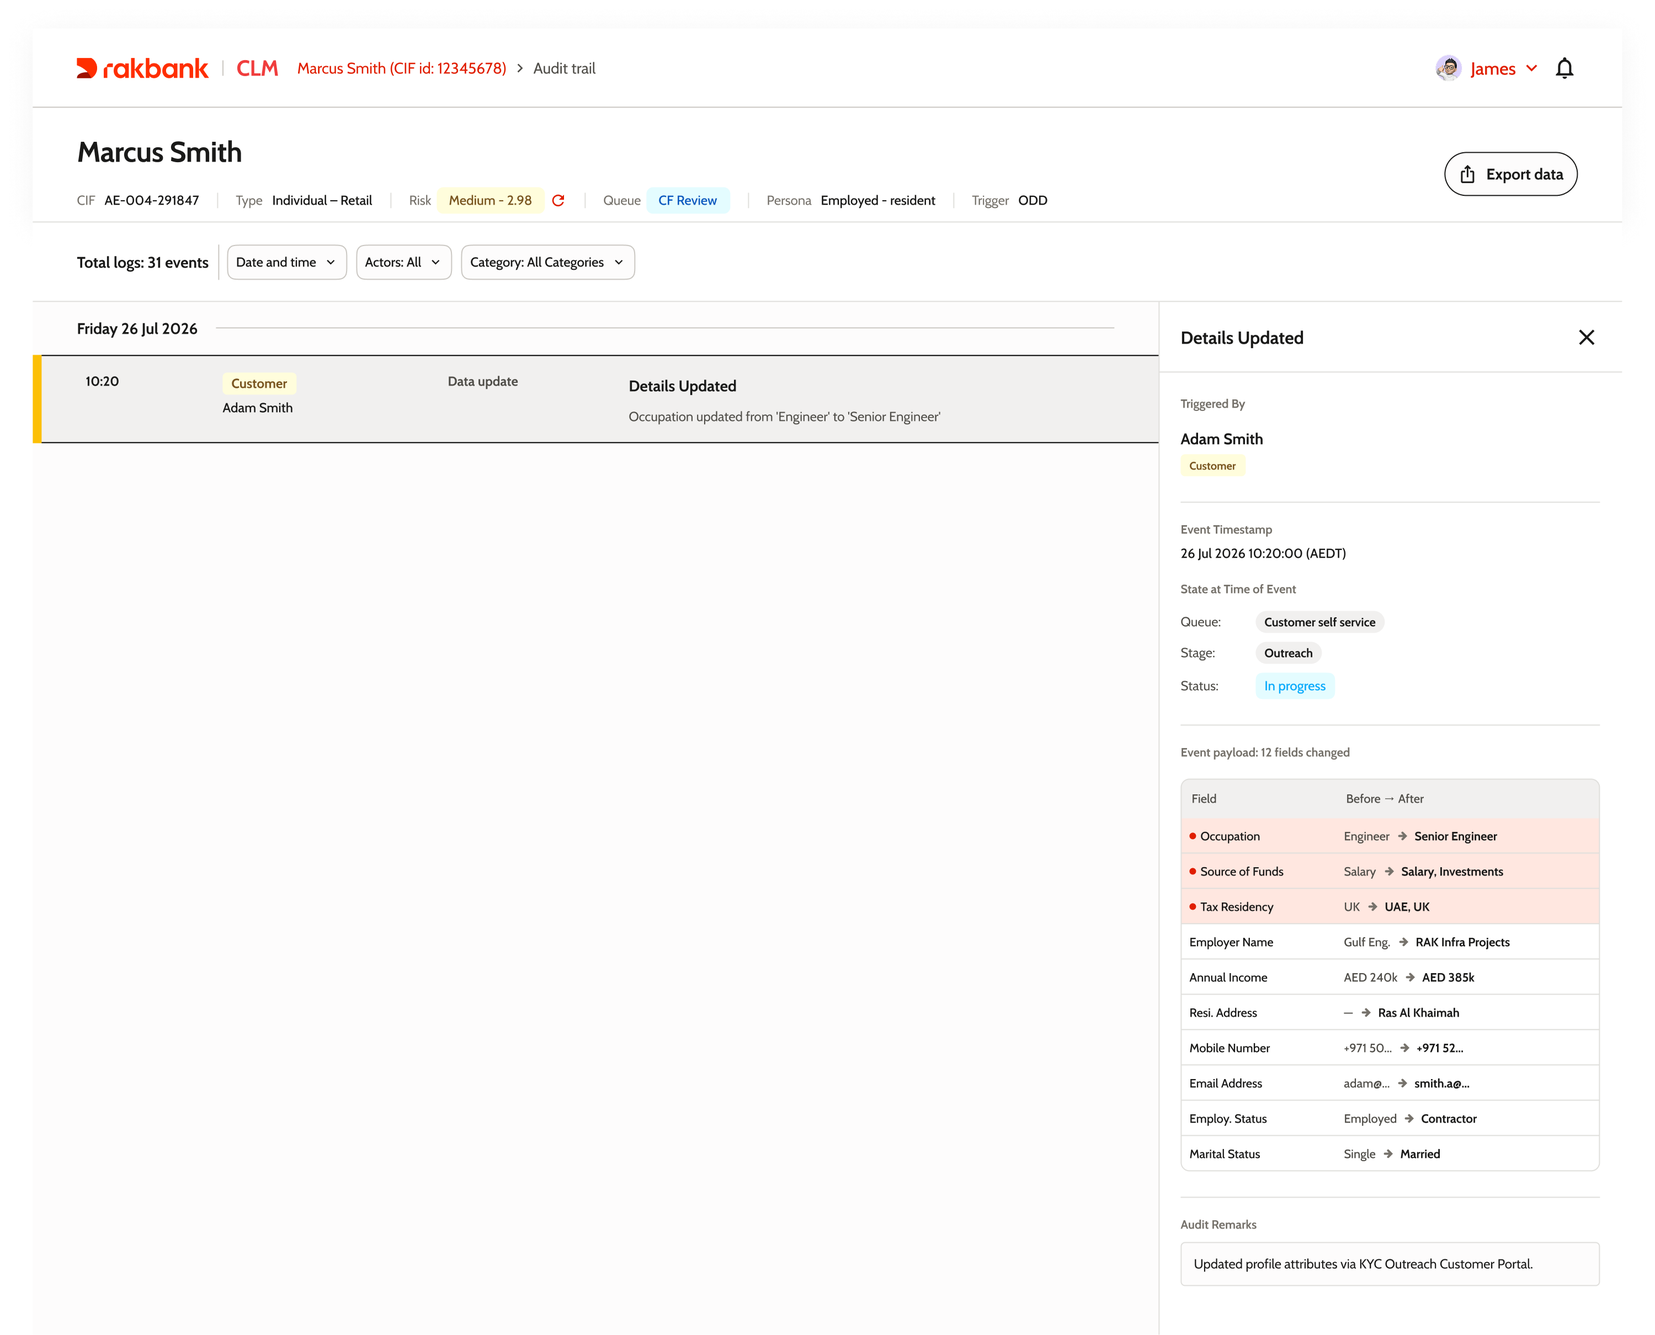
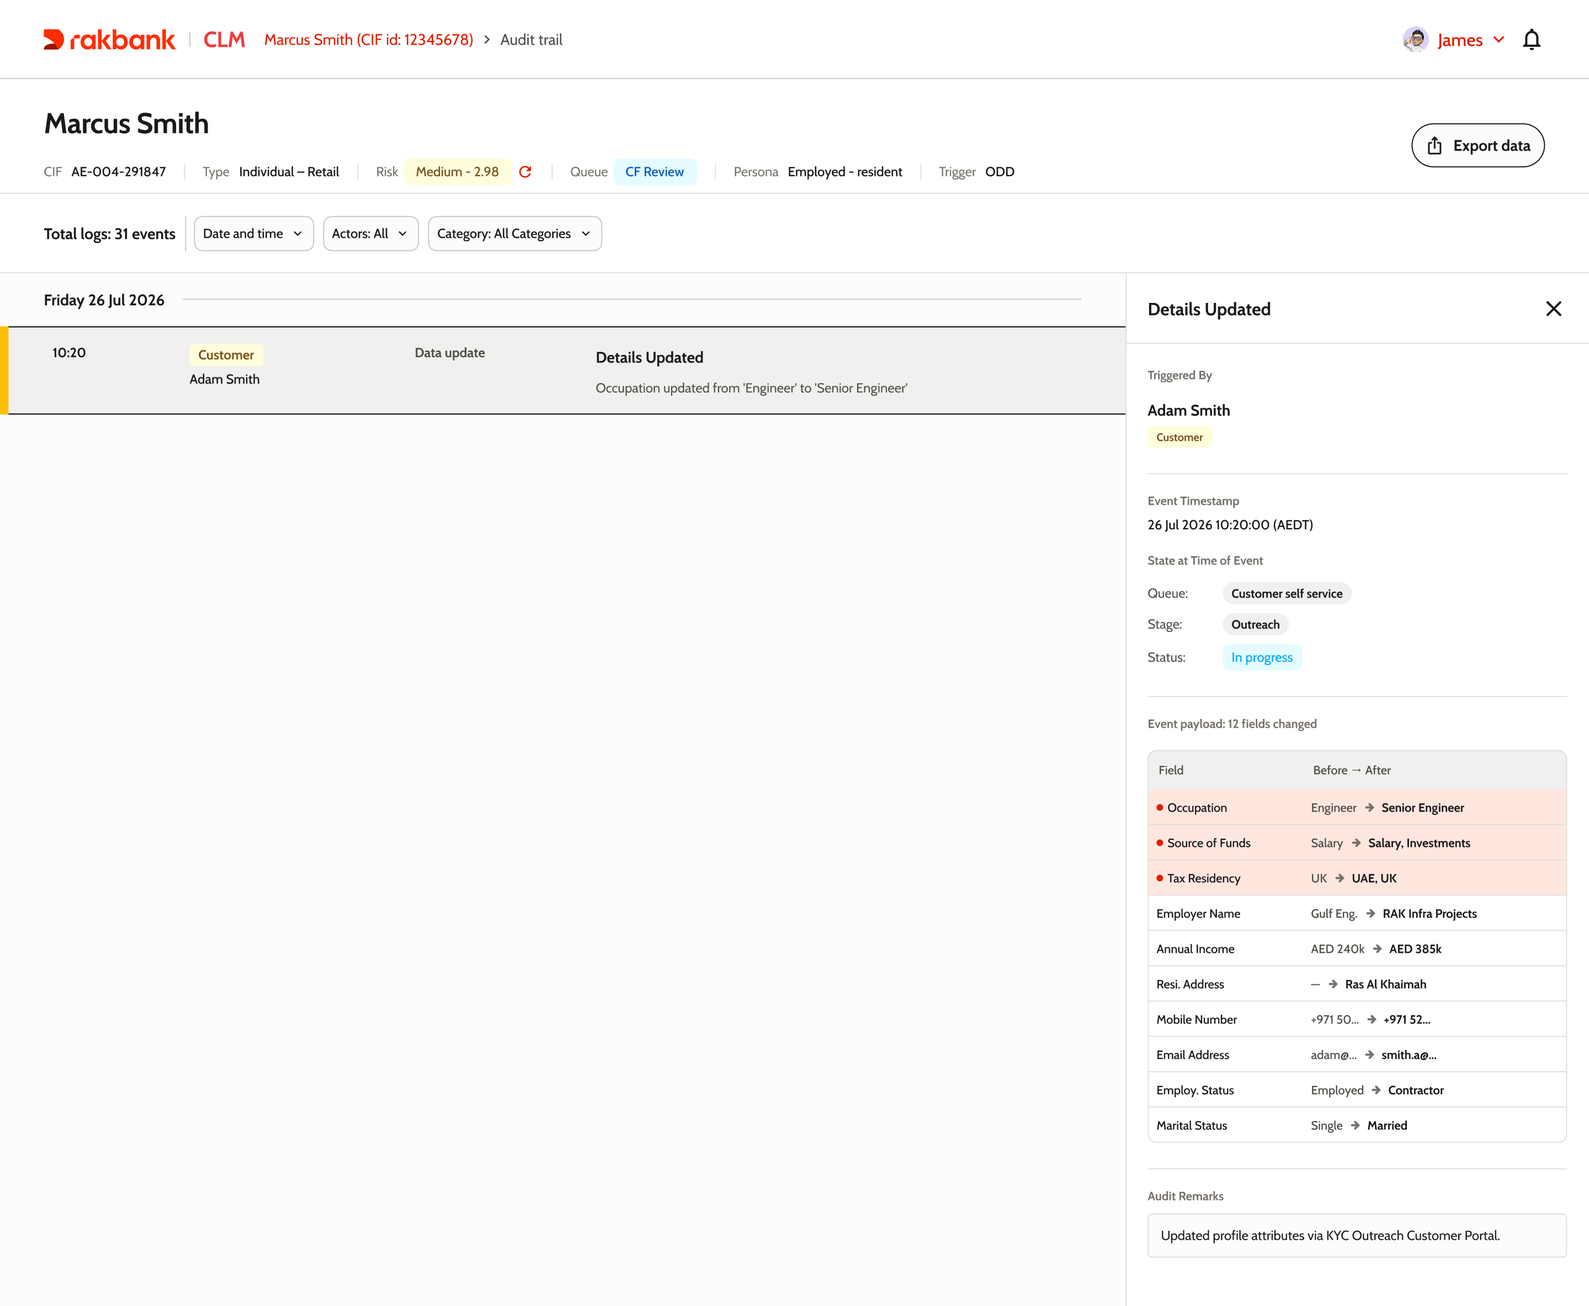
Clean up CLM screenshots: crop baked shadows, hairline stroke styling (#171)

diff --git a/case-rakbank-ru.html b/case-rakbank-ru.html
@@ -14,7 +14,7 @@
       href="https://fonts.googleapis.com/css2?family=Inter:wght@300;400;500;600;700;800&display=swap"
       rel="stylesheet"
     />
-    <link rel="stylesheet" href="styles.css?v=35" />
+    <link rel="stylesheet" href="styles.css?v=36" />
     <script defer src="script.js?v=4"></script>
   </head>
   <body class="n-bg n-rakbank">
@@ -105,8 +105,8 @@
           </ul>
           <p class="n-up">Мы отказались от <strong>тихого логирования</strong>, потому что оно даёт запись, но не повествование: видно, что произошло, но не почему. Мы отказались от <strong>полного обоснования</strong>, потому что при больших объёмах оно создаёт трение и порождает некачественный текст, который никто не читает.</p>
           <p class="n-up">Мы остановились на <strong>структурированных комментариях</strong> в моменты, которые действительно важны. Когда аналитик перенаправляет дело, меняет риск-оценку или запускает последствия, панель решения запрашивает причину — структурированную, короткую и привязанную к самому действию.</p>
-          <div class="n-img-block n-img-block--flush n-up">
-            <img src="assets/clm-case-panel.png?v=2" alt="Панель решения по делу: история маршрутизации и точка, где перед отправкой требуется структурированный комментарий" />
+          <div class="n-img-block n-img-block--flush n-img-block--ring n-up">
+            <img src="assets/clm-case-panel.png?v=3" alt="Панель решения по делу: история маршрутизации и точка, где перед отправкой требуется структурированный комментарий" />
           </div>
         </div>
 
@@ -117,7 +117,7 @@
           <p class="n-up">Это жизнь реального дела, воспроизведённая заново: срабатывает периодическая проверка, система проверяет применимость и отправляет запрос, клиент входит в портал, обновляет данные и загружает документы; дело берёт аналитик, затем бизнес-контроль, комплаенс повышает уровень риска, и старший офицер ставит финальную подпись. Каждый шаг — событие на одной ленте времени.</p>
           <p class="n-up">Цветная кромка говорит, кто действовал, ещё до того, как вы прочитали хоть слово: системные события — серым, сотрудники банка — синим, клиент — жёлтым. А поскольку след фильтруется по дате, актору и категории, «покажи всё, что делал клиент» — это один клик, а не расследование.</p>
           <div class="n-img-block n-img-block--flush n-img-block--ring n-up">
-            <img src="assets/clm-audit-timeline.png?v=2" alt="Полная лента аудиторского следа: 31 событие за три дня, от выявления триггера до закрытия дела, с цветовой кодировкой по акторам" />
+            <img src="assets/clm-audit-timeline.png?v=3" alt="Полная лента аудиторского следа: 31 событие за три дня, от выявления триггера до закрытия дела, с цветовой кодировкой по акторам" />
           </div>
           <div class="n-img-block n-img-block--flush n-up">
             <img src="assets/clm-audit-filtered.png?v=1" alt="Тот же след с фильтром «Актор: клиент» — только входы клиента в портал, отправки, загрузки и обновления данных" />
@@ -137,7 +137,7 @@
           </ul>
           <p class="n-up">Снимок состояния — то, что аудиторов волнует больше всего. Недостаточно знать, что дело одобрили — нужно знать, на каком этапе оно было и что видел аналитик, когда одобрение произошло.</p>
           <div class="n-img-block n-img-block--flush n-img-block--ring n-up">
-            <img src="assets/clm-audit-approve.png?v=1" alt="Детали события в аудиторском следе: одобрение дела названным комплаенс-офицером, с состоянием на момент события, полезной нагрузкой решения и аудиторским комментарием" />
+            <img src="assets/clm-audit-approve.png?v=2" alt="Детали события в аудиторском следе: одобрение дела названным комплаенс-офицером, с состоянием на момент события, полезной нагрузкой решения и аудиторским комментарием" />
           </div>
         </div>
 
@@ -149,14 +149,14 @@
           <p class="n-up">Когда система перемещает дело, полезная нагрузка показывает предыдущее состояние конвейера и завершённый переход. Когда письмо не доставлено, событие несёт код ошибки, запланированный повтор и флаг «не разрешено». А когда клиент обновляет свои данные, полезная нагрузка — это диф «до и после» по каждому изменённому полю, с пометкой полей, значимых для риска.</p>
           <div class="n-img-pair n-up">
             <div class="n-img-block n-img-block--flush">
-              <img src="assets/clm-audit-queue.png?v=1" alt="Системное событие: автоматический переход между очередями, с предыдущим состоянием конвейера и завершённым переходом в полезной нагрузке" />
+              <img src="assets/clm-audit-queue.png?v=2" alt="Системное событие: автоматический переход между очередями, с предыдущим состоянием конвейера и завершённым переходом в полезной нагрузке" />
             </div>
             <div class="n-img-block n-img-block--flush">
-              <img src="assets/clm-audit-exception.png?v=1" alt="Событие-исключение: сбой доставки письма клиенту, с кодом ошибки, запланированным повтором и статусом «не разрешено»" />
+              <img src="assets/clm-audit-exception.png?v=2" alt="Событие-исключение: сбой доставки письма клиенту, с кодом ошибки, запланированным повтором и статусом «не разрешено»" />
             </div>
           </div>
           <div class="n-img-block n-img-block--flush n-img-block--ring n-up">
-            <img src="assets/clm-audit-details.png?v=1" alt="Событие клиента: данные профиля обновлены через KYC-портал, с дифом «до и после» по всем 12 изменённым полям и подсветкой значимых для риска" />
+            <img src="assets/clm-audit-details.png?v=2" alt="Событие клиента: данные профиля обновлены через KYC-портал, с дифом «до и после» по всем 12 изменённым полям и подсветкой значимых для риска" />
           </div>
         </div>
 

diff --git a/case-rakbank.html b/case-rakbank.html
@@ -14,7 +14,7 @@
       href="https://fonts.googleapis.com/css2?family=Inter:wght@300;400;500;600;700;800&display=swap"
       rel="stylesheet"
     />
-    <link rel="stylesheet" href="styles.css?v=35" />
+    <link rel="stylesheet" href="styles.css?v=36" />
     <script defer src="script.js?v=4"></script>
   </head>
   <body class="n-bg n-rakbank">
@@ -79,8 +79,8 @@
           <h2 class="n-title n-up">A record that writes itself as you work</h2>
           <p class="n-up">That fear is what the audit trail is for. Not a log — a story the case tells about itself, built while the work happens.</p>
           <p class="n-up">The obvious approach was to log everything silently. But a log tells you what happened, not why. The other extreme — asking people to justify every click — buries the record in noise. So I put the questions only where the decisions are: when someone routes a case, changes a risk score, or triggers a consequence, the panel asks for a short reason before it lets them through. Everything else records itself quietly in the background.</p>
-          <div class="n-img-block n-img-block--flush n-up">
-            <img src="assets/clm-case-panel.png?v=2" alt="The case decision panel: routing history and the point where a short reason is required before submitting" />
+          <div class="n-img-block n-img-block--flush n-img-block--ring n-up">
+            <img src="assets/clm-case-panel.png?v=3" alt="The case decision panel: routing history and the point where a short reason is required before submitting" />
           </div>
         </div>
 
@@ -91,11 +91,11 @@
           <p class="n-up">Here's a real case, replayed. A periodic review kicks off, the system emails the customer, they log in, fix their details, upload documents. A reviewer picks it up, hands it to business controls, compliance raises the risk, and a senior officer signs off. All of it lands on one timeline.</p>
           <p class="n-up">The colour on the edge tells you who acted before you read a word — grey for the system, blue for the bank, yellow for the customer. Need just the customer's side of the story? That's one filter.</p>
           <div class="n-img-block n-img-block--flush n-img-block--ring n-up">
-            <img src="assets/clm-audit-timeline.png?v=2" alt="The full audit trail timeline: 31 events across three days, from trigger identified to case closed, colour-coded by actor" />
+            <img src="assets/clm-audit-timeline.png?v=3" alt="The full audit trail timeline: 31 events across three days, from trigger identified to case closed, colour-coded by actor" />
           </div>
           <p class="n-up">Open any event and you get the same four answers: who did it, what the case looked like at that exact moment, what changed, and the reason they gave. That snapshot of the moment is what auditors care about most — not what the case looks like now, but what the reviewer could see when they made the call.</p>
           <div class="n-img-block n-img-block--flush n-img-block--ring n-up">
-            <img src="assets/clm-audit-approve.png?v=1" alt="An event opened: a case approval by a named compliance officer, with the state at that moment, what changed, and the reason given" />
+            <img src="assets/clm-audit-approve.png?v=2" alt="An event opened: a case approval by a named compliance officer, with the state at that moment, what changed, and the reason given" />
           </div>
         </div>
 
@@ -106,15 +106,15 @@
           <p class="n-up">A case isn't shaped only by reviewers. The system moves it between queues. Outreach emails fail and get retried. The customer edits their own profile through the portal. The trail records all of it the same way — because to an auditor, a failed email matters as much as an approval.</p>
           <div class="n-img-pair n-up">
             <div class="n-img-block n-img-block--flush">
-              <img src="assets/clm-audit-queue.png?v=1" alt="A system event: the case moved between queues automatically, with the state before and after" />
+              <img src="assets/clm-audit-queue.png?v=2" alt="A system event: the case moved between queues automatically, with the state before and after" />
             </div>
             <div class="n-img-block n-img-block--flush">
-              <img src="assets/clm-audit-exception.png?v=1" alt="A failure event: an outreach email that didn't deliver, with the error, the scheduled retry, and an unresolved flag" />
+              <img src="assets/clm-audit-exception.png?v=2" alt="A failure event: an outreach email that didn't deliver, with the error, the scheduled retry, and an unresolved flag" />
             </div>
           </div>
           <p class="n-up">When the customer updates their details, the trail shows every field, before and after, with the ones that matter for risk flagged.</p>
           <div class="n-img-block n-img-block--flush n-img-block--ring n-up">
-            <img src="assets/clm-audit-details.png?v=1" alt="A customer event: profile details updated through the portal, with a before-and-after view of all 12 changed fields" />
+            <img src="assets/clm-audit-details.png?v=2" alt="A customer event: profile details updated through the portal, with a before-and-after view of all 12 changed fields" />
           </div>
         </div>
 

diff --git a/styles.css b/styles.css
@@ -1898,6 +1898,17 @@ body.n-bg .site-header.is-scrolled {
 .n-img-pair .n-img-block img {
   border-radius: 0.5rem;
 }
+/* RAKBANK — audit screenshots are cropped tight to the UI, so they take a
+   plain hairline stroke instead of floating on the grey mat. */
+.n-rakbank .n-img-pair .n-img-block {
+  background: transparent;
+  padding: 0;
+  border-radius: 1rem;
+}
+.n-rakbank .n-img-pair .n-img-block img {
+  border-radius: 1rem;
+  border: 1px solid #e6e6e6;
+}
 @media (max-width: 700px) {
   .n-img-pair {
     grid-template-columns: 1fr;

diff --git a/case-balady-ru.html b/case-balady-ru.html
@@ -14,7 +14,7 @@
       href="https://fonts.googleapis.com/css2?family=Inter:wght@300;400;500;600;700;800&display=swap"
       rel="stylesheet"
     />
-    <link rel="stylesheet" href="styles.css?v=35" />
+    <link rel="stylesheet" href="styles.css?v=36" />
     <script defer src="script.js?v=4"></script>
   </head>
   <body class="n-bg n-balady">

diff --git a/case-balady.html b/case-balady.html
@@ -14,7 +14,7 @@
       href="https://fonts.googleapis.com/css2?family=Inter:wght@300;400;500;600;700;800&display=swap"
       rel="stylesheet"
     />
-    <link rel="stylesheet" href="styles.css?v=35" />
+    <link rel="stylesheet" href="styles.css?v=36" />
     <script defer src="script.js?v=4"></script>
   </head>
   <body class="n-bg n-balady">

diff --git a/case-cram-ru.html b/case-cram-ru.html
@@ -14,7 +14,7 @@
       href="https://fonts.googleapis.com/css2?family=Inter:wght@300;400;500;600;700;800&display=swap"
       rel="stylesheet"
     />
-    <link rel="stylesheet" href="styles.css?v=35" />
+    <link rel="stylesheet" href="styles.css?v=36" />
     <script defer src="script.js?v=4"></script>
   </head>
   <body class="n-bg n-cram">

diff --git a/case-cram.html b/case-cram.html
@@ -14,7 +14,7 @@
       href="https://fonts.googleapis.com/css2?family=Inter:wght@300;400;500;600;700;800&display=swap"
       rel="stylesheet"
     />
-    <link rel="stylesheet" href="styles.css?v=35" />
+    <link rel="stylesheet" href="styles.css?v=36" />
     <script defer src="script.js?v=4"></script>
   </head>
   <body class="n-bg n-cram">

diff --git a/case-kafu-ru.html b/case-kafu-ru.html
@@ -14,7 +14,7 @@
       href="https://fonts.googleapis.com/css2?family=Inter:wght@300;400;500;600;700;800&display=swap"
       rel="stylesheet"
     />
-    <link rel="stylesheet" href="styles.css?v=35" />
+    <link rel="stylesheet" href="styles.css?v=36" />
     <script defer src="script.js?v=4"></script>
   </head>
   <body class="n-bg n-kafu">

diff --git a/case-kafu.html b/case-kafu.html
@@ -14,7 +14,7 @@
       href="https://fonts.googleapis.com/css2?family=Inter:wght@300;400;500;600;700;800&display=swap"
       rel="stylesheet"
     />
-    <link rel="stylesheet" href="styles.css?v=35" />
+    <link rel="stylesheet" href="styles.css?v=36" />
     <script defer src="script.js?v=4"></script>
   </head>
   <body class="n-bg n-kafu">

diff --git a/login.html b/login.html
@@ -14,7 +14,7 @@
       href="https://fonts.googleapis.com/css2?family=Inter:wght@300;400;500;600;700&display=swap"
       rel="stylesheet"
     />
-    <link rel="stylesheet" href="styles.css?v=35" />
+    <link rel="stylesheet" href="styles.css?v=36" />
     <style>
       .login-page {
         min-height: 100vh;
